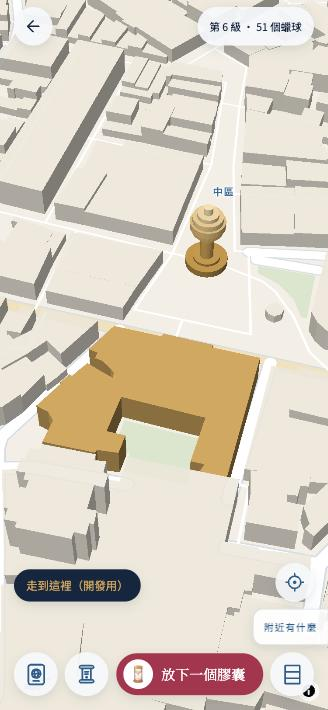
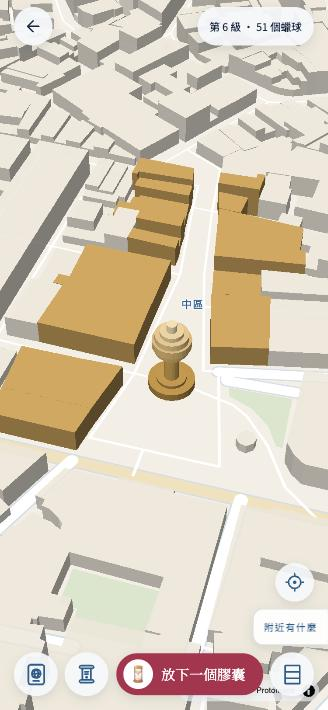
Senado monument: fountain plus the buildings lining the square, not Leal Senado

diff --git a/mobile/src/features/journey/live/mapHtml.ts b/mobile/src/features/journey/live/mapHtml.ts
@@ -34,9 +34,9 @@ export const MONUMENTS: Monument[] = [
     ...Array.from({ length: 8 }, (_, i) => flare(36 + i * 8, 8, 14, 18.5)).flat(),
     [12, 100, 106], [8, 106, 112], [4, 112, 116], [1.6, 116, 142],
   ] },
-  // Senado Square: the fountain (round basin, column, armillary globe) at the fountain basin in our tiles,
-  // with the Leal Senado building beside it taken from the tiles (OSM way, 16.8 m real).
-  { id: "senado", lat: 22.193683, lng: 113.53989, tile: { ids: [35184564662506], realTop: 16.8, top: 10 }, tiers: [
+  // Senado Square: the fountain (round basin, column, armillary globe) at the fountain basin in our tiles, and
+  // the buildings lining the square (tile buildings within 3 m of OSM way 192573684; Leal Senado is across the road).
+  { id: "senado", lat: 22.193683, lng: 113.53989, tile: { ids: [35184577873359, 35185133855962, 35185133855963, 35184763410348, 35185029968552, 35185133855967, 35185133855964, 35185133855966, 35185133855960, 35185133855961, 35184763410351, 35185190550958, 35185133855953, 35184637522361, 35184702457087, 35185152337983, 35184702457086], realTop: 26.2, top: 12 }, tiers: [
     [7, 0, 2.5, { round: true }], [4.5, 2.5, 3.5, { round: true }], [2.2, 3.5, 12, { round: true }], [3.2, 12, 13, { round: true }],
     [3.5, 13, 14.5, { round: true }], [5, 14.5, 16.5, { round: true }], [5.8, 16.5, 19, { round: true }], [5, 19, 21, { round: true }], [3.5, 21, 22.5, { round: true }],
     [1.5, 22.5, 25, { round: true }],

diff --git a/docs/sop/landmark-monument.md b/docs/sop/landmark-monument.md
@@ -21,12 +21,12 @@ How to give a Landmark Waypost its 3D monument. Codex can do this on its own by 
 Every face also has the map's vertical shading. Opacity is 1. A beaten Landmark is shown only by its seal turning plum; the building never changes colour. No ring on the ground.
 
 ## Where the code is
-`mobile/src/features/journey/live/mapHtml.ts`, the `MONUMENTS` list. Examples in the file: Taipei 101 (tiers only), Senado (a hand-built fountain plus Leal Senado from the tiles), HKUST (arcs only).
+`mobile/src/features/journey/live/mapHtml.ts`, the `MONUMENTS` list. Examples in the file: Taipei 101 (stacked squares), Senado (a hand-built round fountain plus the buildings lining the square from the tiles), HKUST (arcs).
 
 ```ts
 { id: "senado", lat: 22.193683, lng: 113.53989,
-  tile: { ids: [35184564662506], realTop: 16.8, top: 10 },
-  tiers: [[7, 0, 2.5, { round: true }], /* ... */] }
+  tile: { ids: [35184577873359, /* ... */], realTop: 26.2, top: 12 },  // the buildings lining the square
+  tiers: [[7, 0, 2.5, { round: true }], /* ... */] }                   // the fountain
 ```
 
 - `id` is the Landmark's id in the `places` table. It must equal the `place` value of the Landmark Waypost row in `sea_shores` (`kind = 'landmark'`). That is how the app links the monument to its Waypost.
@@ -46,7 +46,7 @@ Nothing else in the app needs editing. The seal height, the taps and the hiding 
 2. **Check the tiles cover it.** Open the map there. If it is blank blue, the tile extract doesn't reach it: stop, because the tiles have to be extended first.
 3. **Look at reference photos** (Roy's, or Wikipedia/Wikimedia Commons). Name the two or three things people recognise at a glance. Record the links in the PR. Make sure it is the landmark Roy means: for HKUST it was the curved academic building, not the sculpture in its piazza.
 4. **Find the real positions** in OpenStreetMap (the same data as our tiles): the structure's centre, not the whole site's. Write the source in a comment on the entry.
-5. **Try the tile building first.** In the browser, query the `buildings` layer at the spot (`map.queryRenderedFeatures(point, { layers: ['buildings'] })`) for its feature id(s), `height` and `min_height`. If its outline alone is recognisable, use `tile`. Otherwise, or for anything not in the tiles, hand-build tiers. Mix both when a place is several things (Senado: the fountain is hand-built, Leal Senado comes from the tiles).
+5. **Try the tile building first.** In the browser, query the `buildings` layer at the spot (`map.queryRenderedFeatures(point, { layers: ['buildings'] })`) for its feature id(s), `height` and `min_height`. If its outline alone is recognisable, use `tile`. Otherwise, or for anything not in the tiles, hand-build tiers. Mix both when the landmark is a place made of several things. Draw only what belongs to the landmark: at Senado the fountain and the buildings lining the square, found as tile buildings within 3 m of the square's OSM outline; Leal Senado, across the road, stays grey (Roy, 2026-11-10).
 6. **Move the server's Landmark point** to the monument's `lat`/`lng` if they differ by more than about 10 m: a small data-only migration updating that `sea_shores` row. Otherwise the seal floats over the monument but the fight checks distance from somewhere else.
 7. **Check it in the browser** (below), take the screenshots, and open a PR with them.
 
@@ -60,9 +60,9 @@ Nothing else in the app needs editing. The seal height, the taps and the hiding 
 |---|---|---|
 | Skyscraper or tower (Taipei 101, Petronas) | 100–145 m | Never above 145 m. A needle spire may be the last 20–30 m. |
 | Statue, fountain, gate, temple (Merlion, Senado) | 15–40 m | Low and wide, so it reads as a landmark, not a tower. |
-| Low building or campus (Leal Senado, HKUST) | 10–20 m | Just above the toy buildings around it. |
+| Square or campus buildings (Senado's frame, HKUST) | 10–20 m | Just above the toy buildings around it. |
 
-- **The landmark itself is the tallest part.** A tile building added beside it stays lower (Leal Senado 10 m beside a 25 m fountain).
+- **The centrepiece is the tallest part.** Buildings framing a square stay lower than its fountain or statue (Senado: buildings 12 m, fountain 25 m).
 - **Cover the real building.** A hand-built base must be at least as wide as the real grey building at its foot (Taipei 101's base is 62 m half-width because of the mall).
 - **Thinnest piece: at least 1.5 m half-width,** or it disappears on a phone.
 - **Don't change** `TOY_SCALE`, `TOY_MAX_M`, the colours, the layers, or another monument.

diff --git a/AGENTS.md b/AGENTS.md
@@ -74,7 +74,7 @@ A mobile-first web app for sending someone a sealed **capsule** that can only be
 - To run the production web app locally: `cd mobile && npm install && npm run web` → http://localhost:8088. Legal pages are also copied by `npx expo export --platform web`.
 
 ## Decisions log
-- 2026-11-10: Roy chose tile-first monuments: a Landmark building already in our map tiles is redrawn in brass by its tile feature id; hand-built tiers (now also round, shifted and arc pieces) are only for what the tiles lack or don't make recognisable. Monument colour now follows height. Senado = hand-built fountain with armillary globe at the tiles' fountain basin (22.193683, 113.539890, about 19 m from the current server Landmark point) plus Leal Senado from the tiles at 10 m. HKUST's Landmark is the curved academic building around the Piazza (not the Red Bird sculpture), drawn as two brass arcs opening west; our PMTiles extract doesn't reach HKUST yet. Roy approved a limited HKUST exception to the school rule: public outdoor campus walkways only.
+- 2026-11-10: Roy chose tile-first monuments: a Landmark building already in our map tiles is redrawn in brass by its tile feature id; hand-built tiers (now also round, shifted and arc pieces) are only for what the tiles lack or don't make recognisable. Monument colour now follows height. Senado = hand-built fountain with armillary globe at the tiles' fountain basin (22.193683, 113.539890, about 19 m from the current server Landmark point) plus the 17 tile buildings lining the square (within 3 m of OSM way 192573684) at 12 m; Leal Senado is across Avenida de Almeida Ribeiro, not part of the square, and stays grey. HKUST's Landmark is the curved academic building around the Piazza (not the Red Bird sculpture), drawn as two brass arcs opening west; our PMTiles extract doesn't reach HKUST yet. Roy approved a limited HKUST exception to the school rule: public outdoor campus walkways only.
 - 2026-11-10: The one-time City Hunt Keeper data setup is live as migration `20261110085702_hunt_keeper_names` after hosted transaction/rollback preflight. PR #94 passed CI 42786785487 and owner-account squash-merged as `10c62b2`. `public.hunts` now requires `keeper_spot_zh/en`; Xinyi stores 市府廣場 / Civic Square. `private.hunt_object` adds those fields and the Landmark Waypost's 台北101 / Taipei 101 names with all prior keys byte-equivalent. Live database types were regenerated. At 375 px the bilingual Xinyi check-in line retains “101” and the 3/5 counts, and the waiting line names the Keeper spot; the existing completed test-account progress was not altered.
 - 2026-11-10: Roy approved PR #93 for review, owner-account squash merge and production release. CI 42786275193 passed on `3fee6c9`; the review preserved Xinyi's exact “101” Keeper wording after the future backend fields arrive. PR #93 merged as `8d067be`. The City Hunt and Landmark monument SOPs are now the instructions for new hunts and monuments. The one-time backend fields follow in a Codex branch.
 - 2026-11-10: Roy asked for SOPs so Codex can add City Hunts and Landmark monuments without Claude: `docs/sop/city-hunt.md` (data-only migration, defaults, one ink-blue stamp, tests, when to stop) and `docs/sop/landmark-monument.md` (plain stacked square boxes only, shared brass-to-cream gradient, at most 30 boxes, real OSM centre, Roy approves screenshots). The Keeper's lines now take the meeting spot, Landmark name and step counts from the hunt; a one-time backend change (`keeper_spot_zh/en`, `landmark_name_zh/en` in the hunt object) is required before the second hunt.
